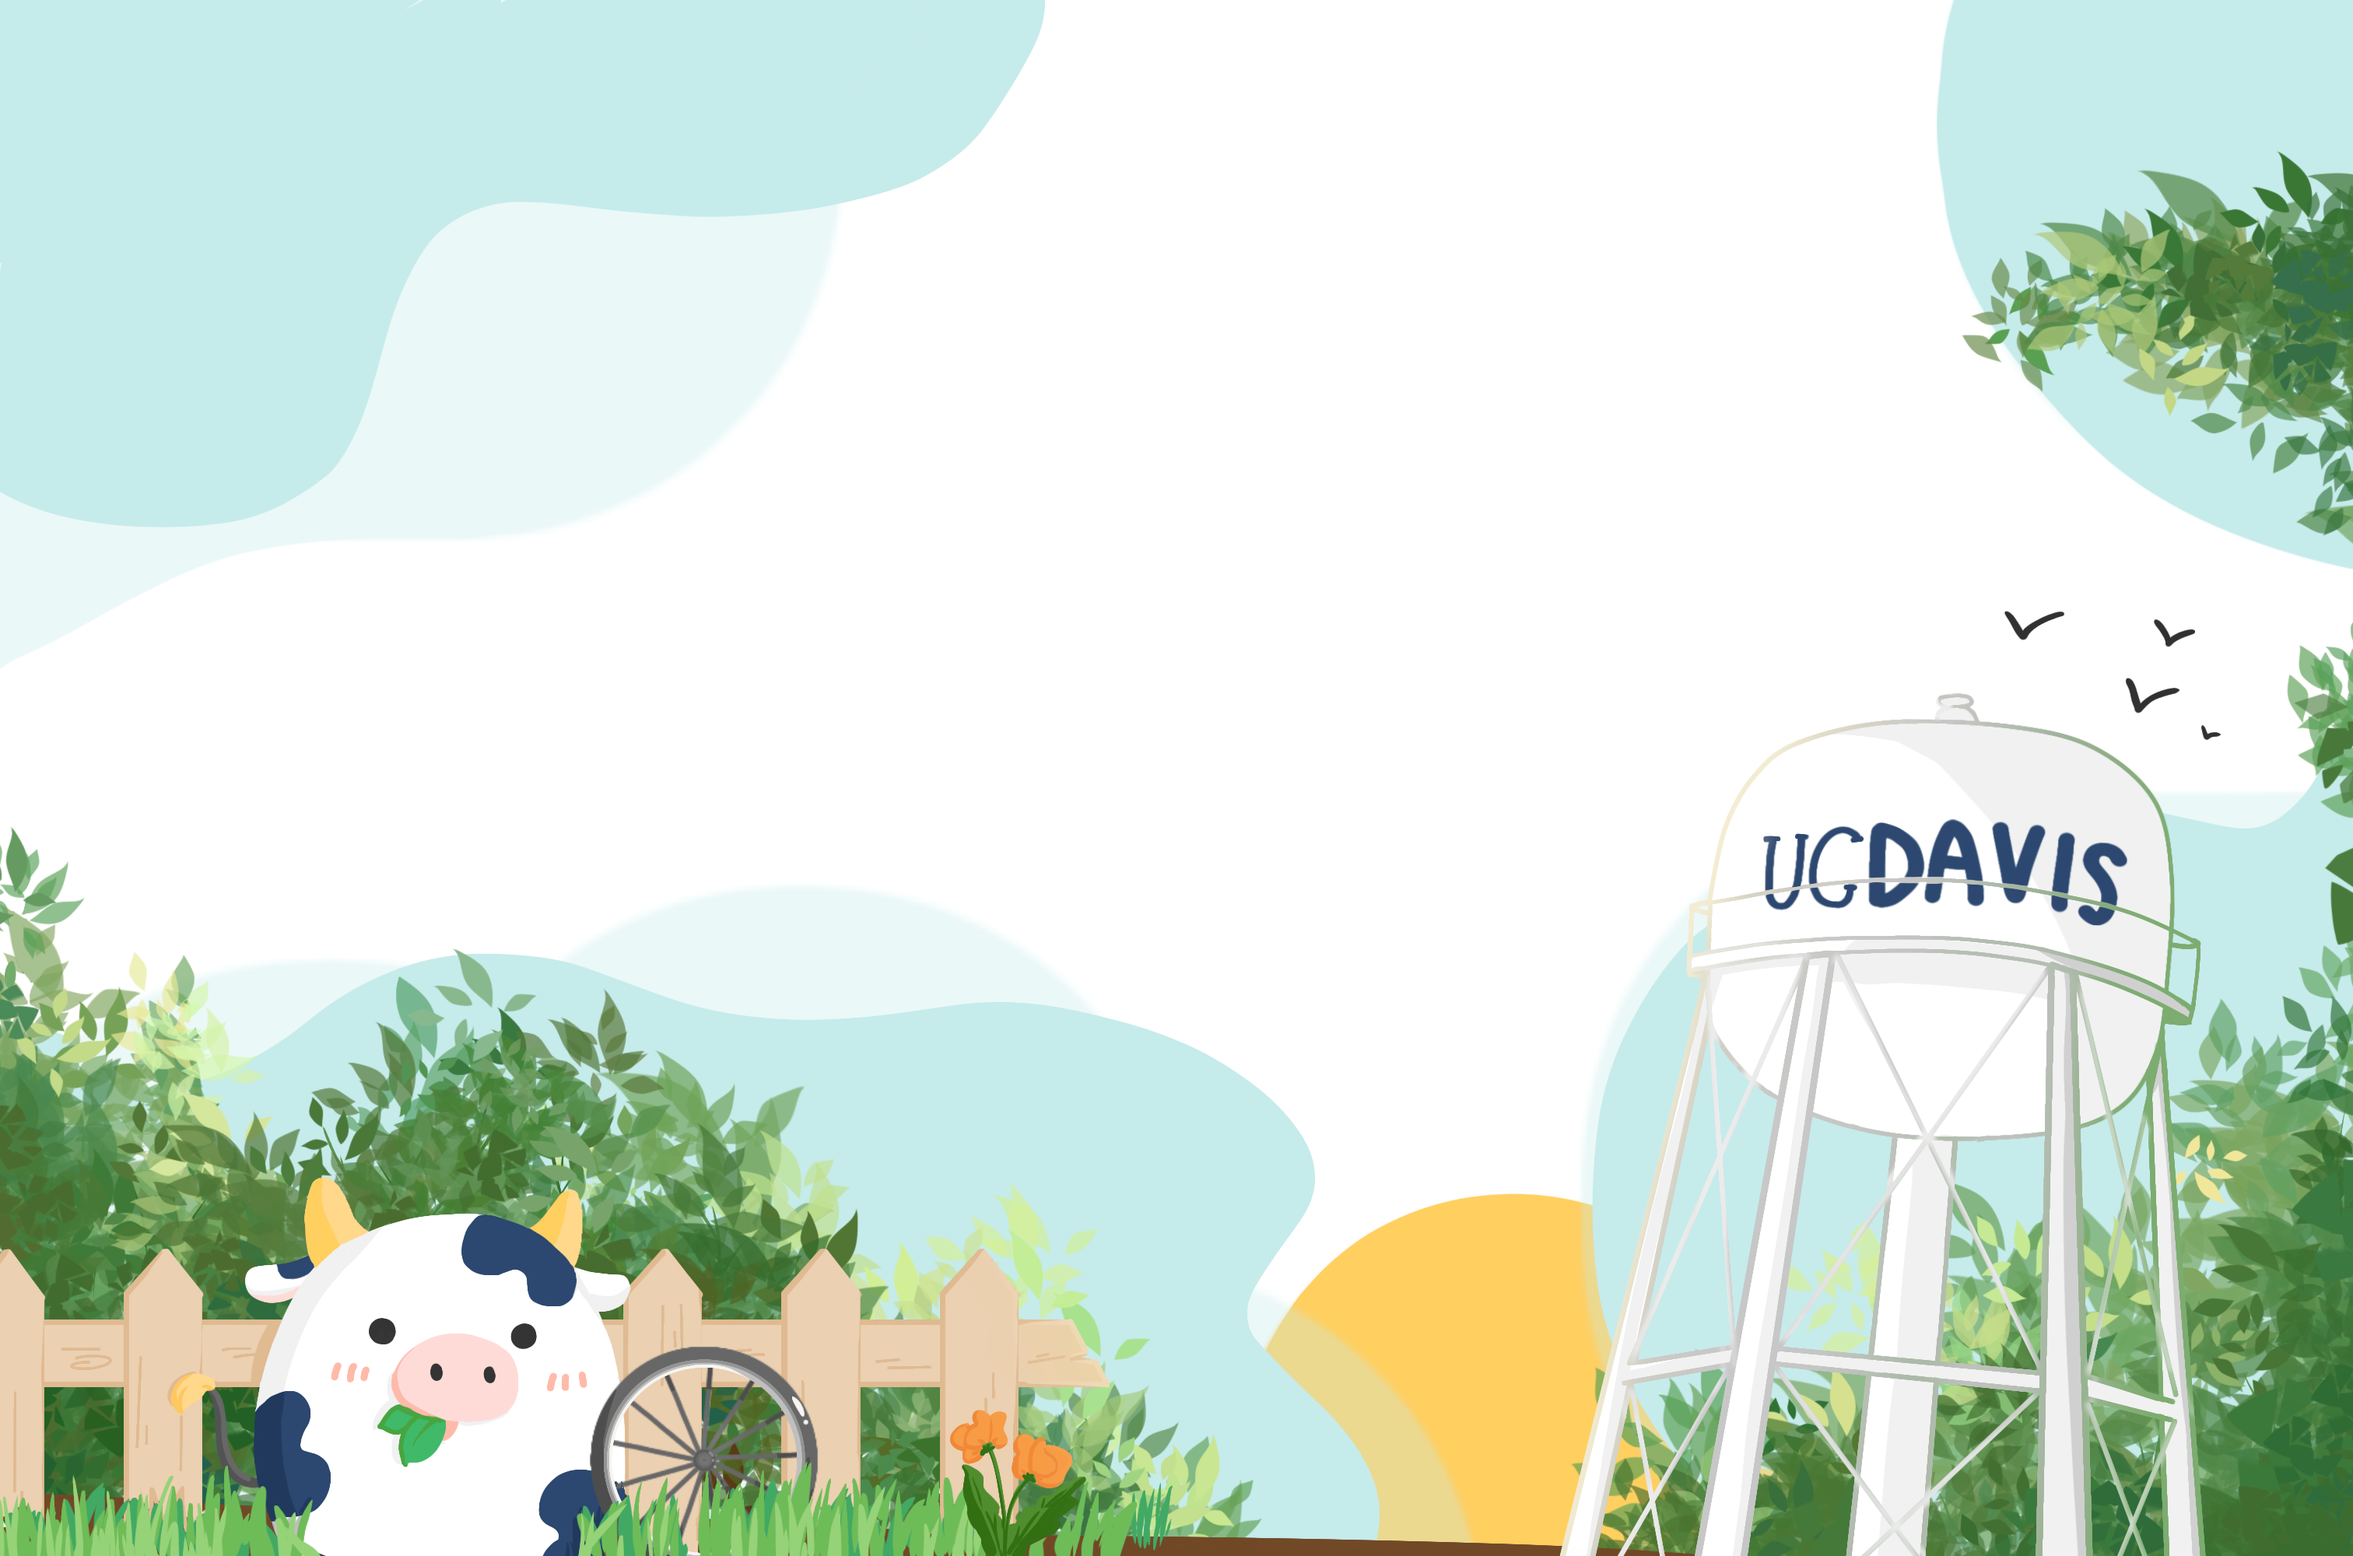
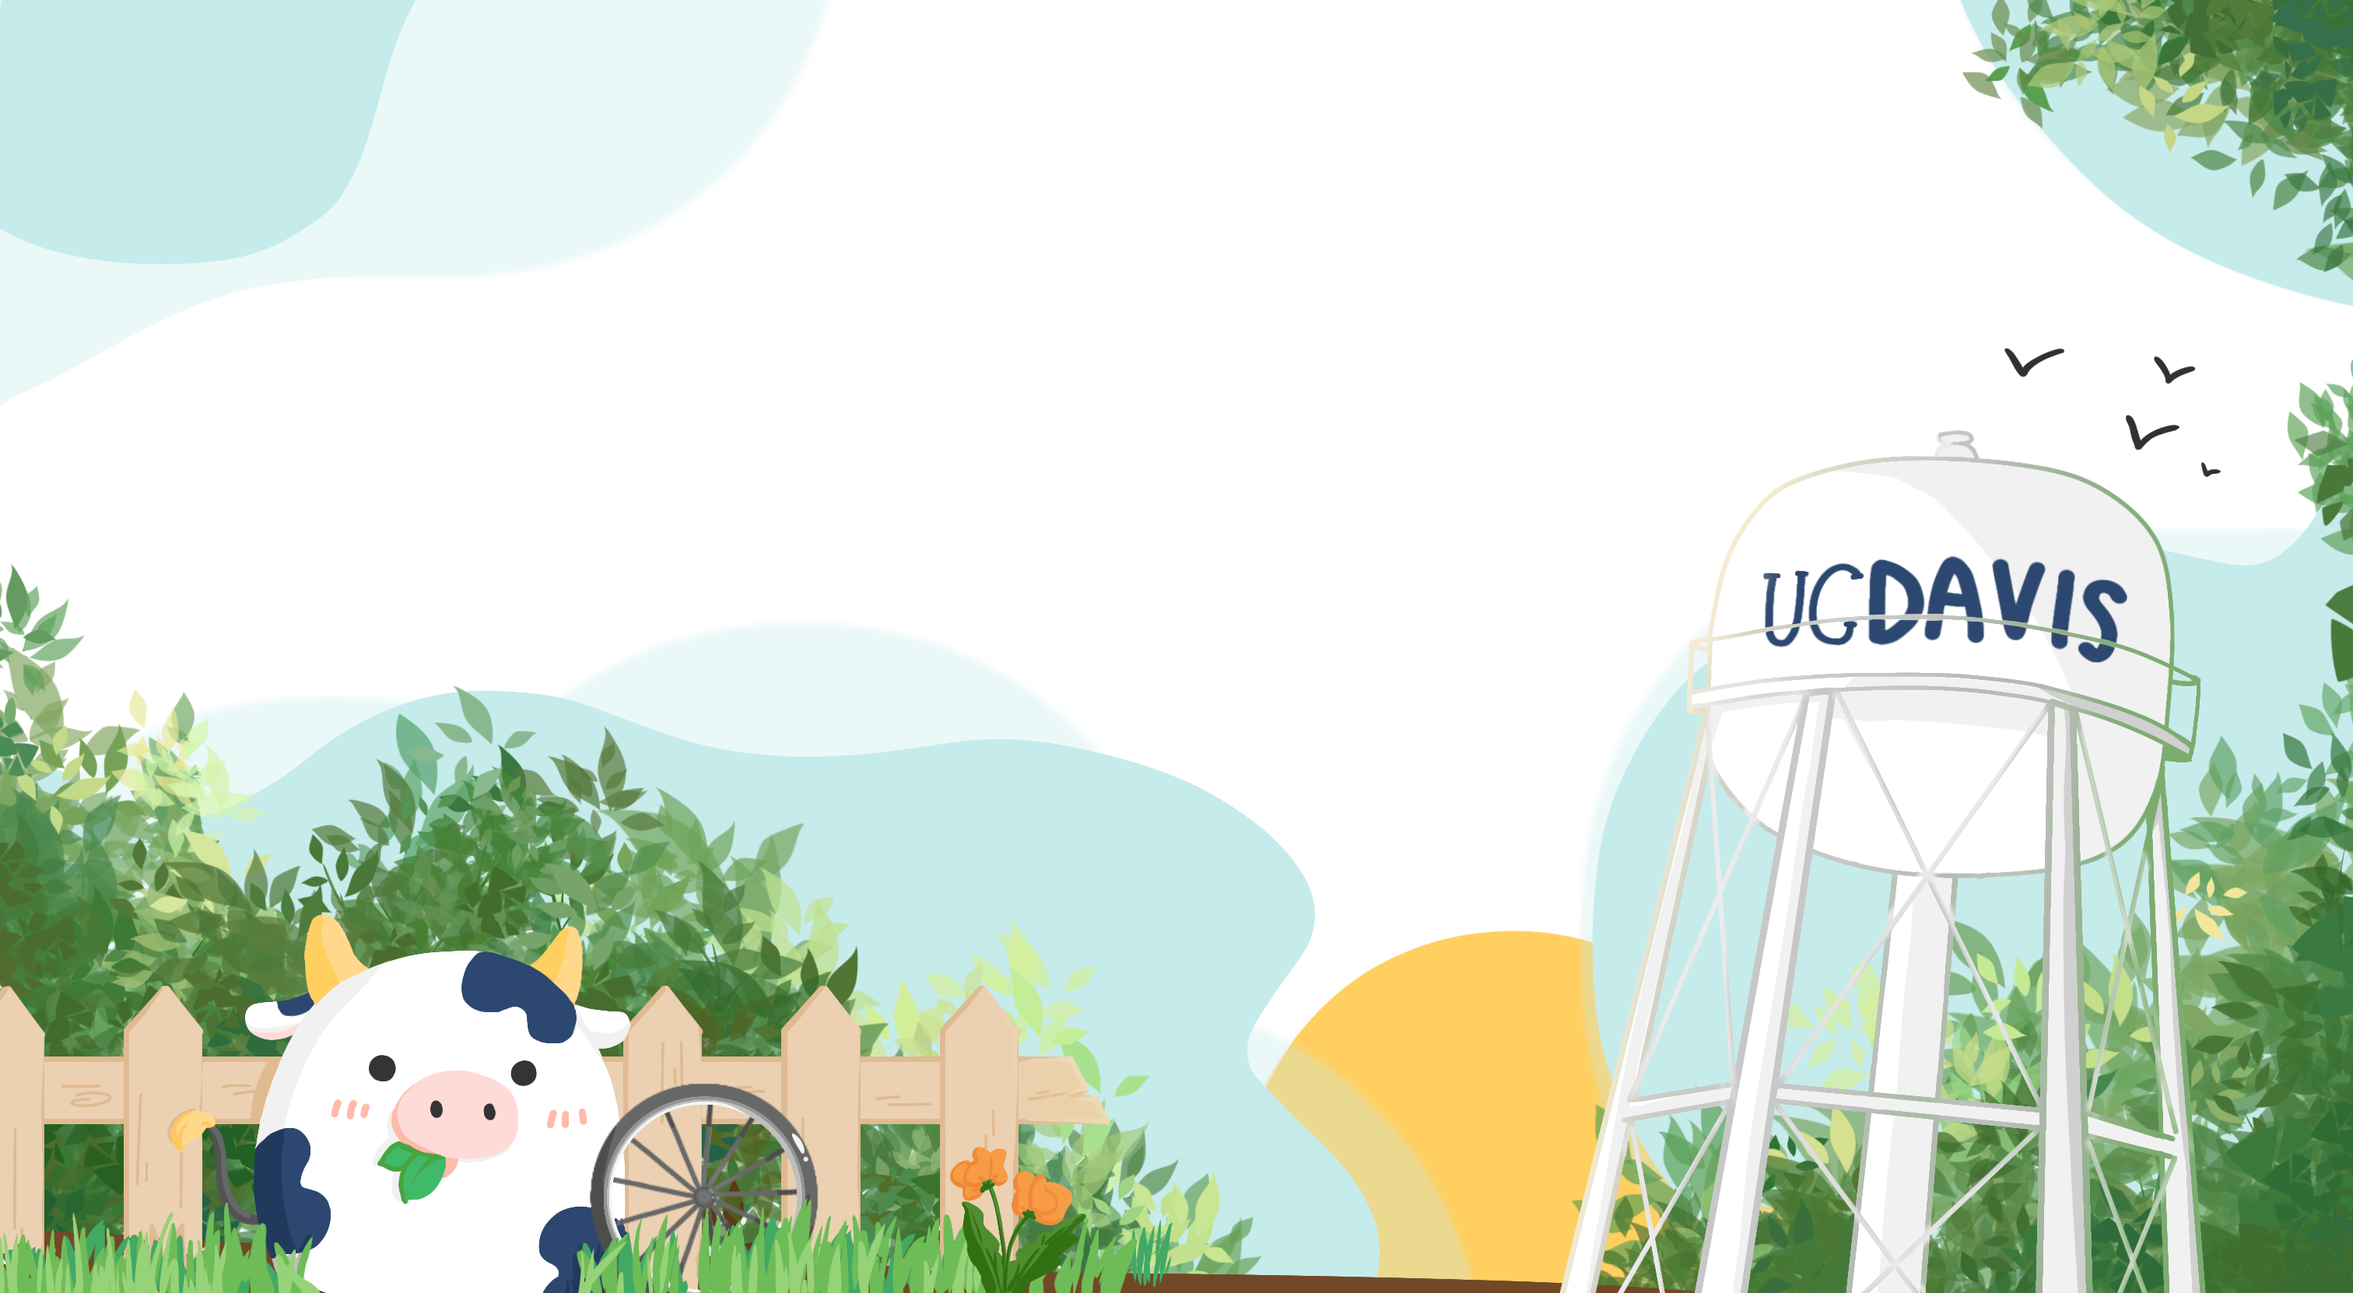
Update HomePage

diff --git a/schedule-tool/frontend/src/components/css/home-page.css b/schedule-tool/frontend/src/components/css/home-page.css
@@ -1,23 +1,113 @@
-.test{
+
+.intro{
     font-family: "Proxima Nova", "Helvetica Neue";
     background-image: url('../HomeIllustration.png');
     /* height: 100%;  */
-    width: '100vw';
-    height: '100vh';
+    width: 100vw;
+    height: 106vh;
+    top: 0;
+    left: 0;
+
 
     /* Center and scale the image nicely */
-    background-position: center;
+    background-size: 100% 100%;
     background-repeat: no-repeat;
     background-size: cover;
+    position: relative;
+    display: block;
+    object-fit: cover;
+    margin: 0 auto;
+    margin-top: -24px;
+}
+
+.introtext{
+    position: relative;
+    top: 50%;
+    left: 15%;
+    transform: translateY(-50%);
+}
+
+.title {
+    margin: 10;   
+}
+
+.Aggie{
+    font-family: "Proxima Nova", "Helvetica Neue";
+    color: #162857;
+    margin: 0;
+    
+}
+.Explorer{
+    font-family: "Proxima Nova", "Helvetica Neue";
+    color: #EAB517;
+    margin: 0;
+    
+}
+.Description{
+    font-family: "Proxima Nova", "Helvetica Neue";
+    color: #EAB517;
+    margin: 20;
+}
+.button{
+    padding: 10;
+}
+a#homebutton{
+    background-color: #162857;
+    color: #FFFFFF;
 }
 
 .whatwedo {
-    margin-top: 60rem;
+    /*margin-top: 60rem;*/
+    font-family: "Proxima Nova", "Helvetica Neue";
+    color: #162857;
+    position: absolute;
+    width: 100%;
+    bottom: 80px;
     text-align: center;
+    margin: 0;
 }
 /* 
 body, html {
     height: 100%;
     margin: 0;
 } */
+.mission{
+    width: 100%;
+    height: 300px;
+}
+.missionleft{
+    font-family: "Proxima Nova", "Helvetica Neue";
+    color: #162857;
+    text-align: center;
+    float: left;
+    width: 50%;
+    position: relative;
+    top: 50%;
+    transform: translateY(-50%);
+}
+
+.missionright{
+    font-family: "Proxima Nova", "Helvetica Neue";
+    color: #162857;
+    float: right;
+    width: 50%;
+    position: relative;
+    top: 50%;
+    transform: translateY(-50%);
+}
+.features{
+    background-color: #162857;
+    width: 100%;
+    height: 450px;
+}
+.featuresleft{
+    font-family: "Proxima Nova", "Helvetica Neue";
+    color: #FFFFFF;
+    text-align: center;
+    float: left;
+    width: 50%;
+    position: relative;
+    top: 20%;
+    transform: translateY(-50%);
+}
 

diff --git a/schedule-tool/frontend/src/components/home-page.component.js b/schedule-tool/frontend/src/components/home-page.component.js
@@ -7,16 +7,28 @@ export default class HomePage extends Component {
     render(){
         return(
             // background-image: url("localhost:3000(/img/Home%20Illustration.png");
-            <div class = "test">
+            <div>
             {/* // <div styles={{ backgroundImage:`url(${background})`}} > */}
-                <div>
-                    {/* <img src={background} alt="img1"/> */}
-                    <h1><b> AggieExplorer </b></h1>
-                    <h6>Grade distribution and enrollment probability tool</h6>
-                    <p>
-                        <a class="btn btn-large btn-info" href="list">Browse Courses</a>
-                    </p> 
-                    <p class="whatwedo"> What we do </p>
+                <div class="introspace">
+                    <div class="intro">
+                        {/* <img src={background} alt="img1"/> */}
+                        <div class="introtext">
+                            <h1 class="title"><span class="Aggie"><b>Aggie</b></span><span class="Explorer"><b>Explorer</b></span></h1>
+                            <h6 class="Description">Grade distribution and enrollment probability tool</h6>
+                            <p class="button">
+                                <a id="homebutton" class="btn btn-large btn-info" href="list">Browse Courses</a>
+                            </p> 
+                        </div>
+                        <div class="whatwedo"> What we do </div>
+                    </div>
+                </div>
+                <div class="mission">
+                    <h1 class="missionleft">Mission</h1> 
+                    <div class="missionright">To help provide transparency and additional information about UC Davis courses in order to help students make better decisions during course registration</div>
+                </div>
+                <div class="features">
+                    <h1 class="featuresleft">Features<br /></h1>
+                    <div class="featuresright"></div>
                 </div>
             </div>
         )

diff --git a/schedule-tool/frontend/src/components/navbar.component.js b/schedule-tool/frontend/src/components/navbar.component.js
@@ -19,6 +19,9 @@ export default class Navbar extends Component {
             <li className="navbar-item">
             <Link to="/list" className="nav-link">Class Search</Link>
             </li>
+            <li className="navbar-item">
+            <Link to="/about" className="nav-link">About</Link>
+            </li>
           </ul>
         </div>
       </nav>

diff --git a/schedule-tool/frontend/src/components/css/navbar.css b/schedule-tool/frontend/src/components/css/navbar.css
@@ -1,9 +1,10 @@
 #navbar{
     font-family: "Proxima Nova", "Helvetica Neue";
-    background-color: #162857
-
+    background-color: #162857;
+    overflow: auto;
 }
 #navlinks{
     font-family: "Proxima Nova", "Helvetica Neue";
-    color: #FFFFFF
+    color: #FFFFFF;
+    margin: 0;
 }

diff --git a/schedule-tool/frontend/src/components/about-page.component.js b/schedule-tool/frontend/src/components/about-page.component.js
@@ -3,5 +3,8 @@ import { Link } from 'react-router-dom';
 
 export default class AboutPage extends Component {
     render(){
+        return(
+            <div></div>
+        )
     }
 }
